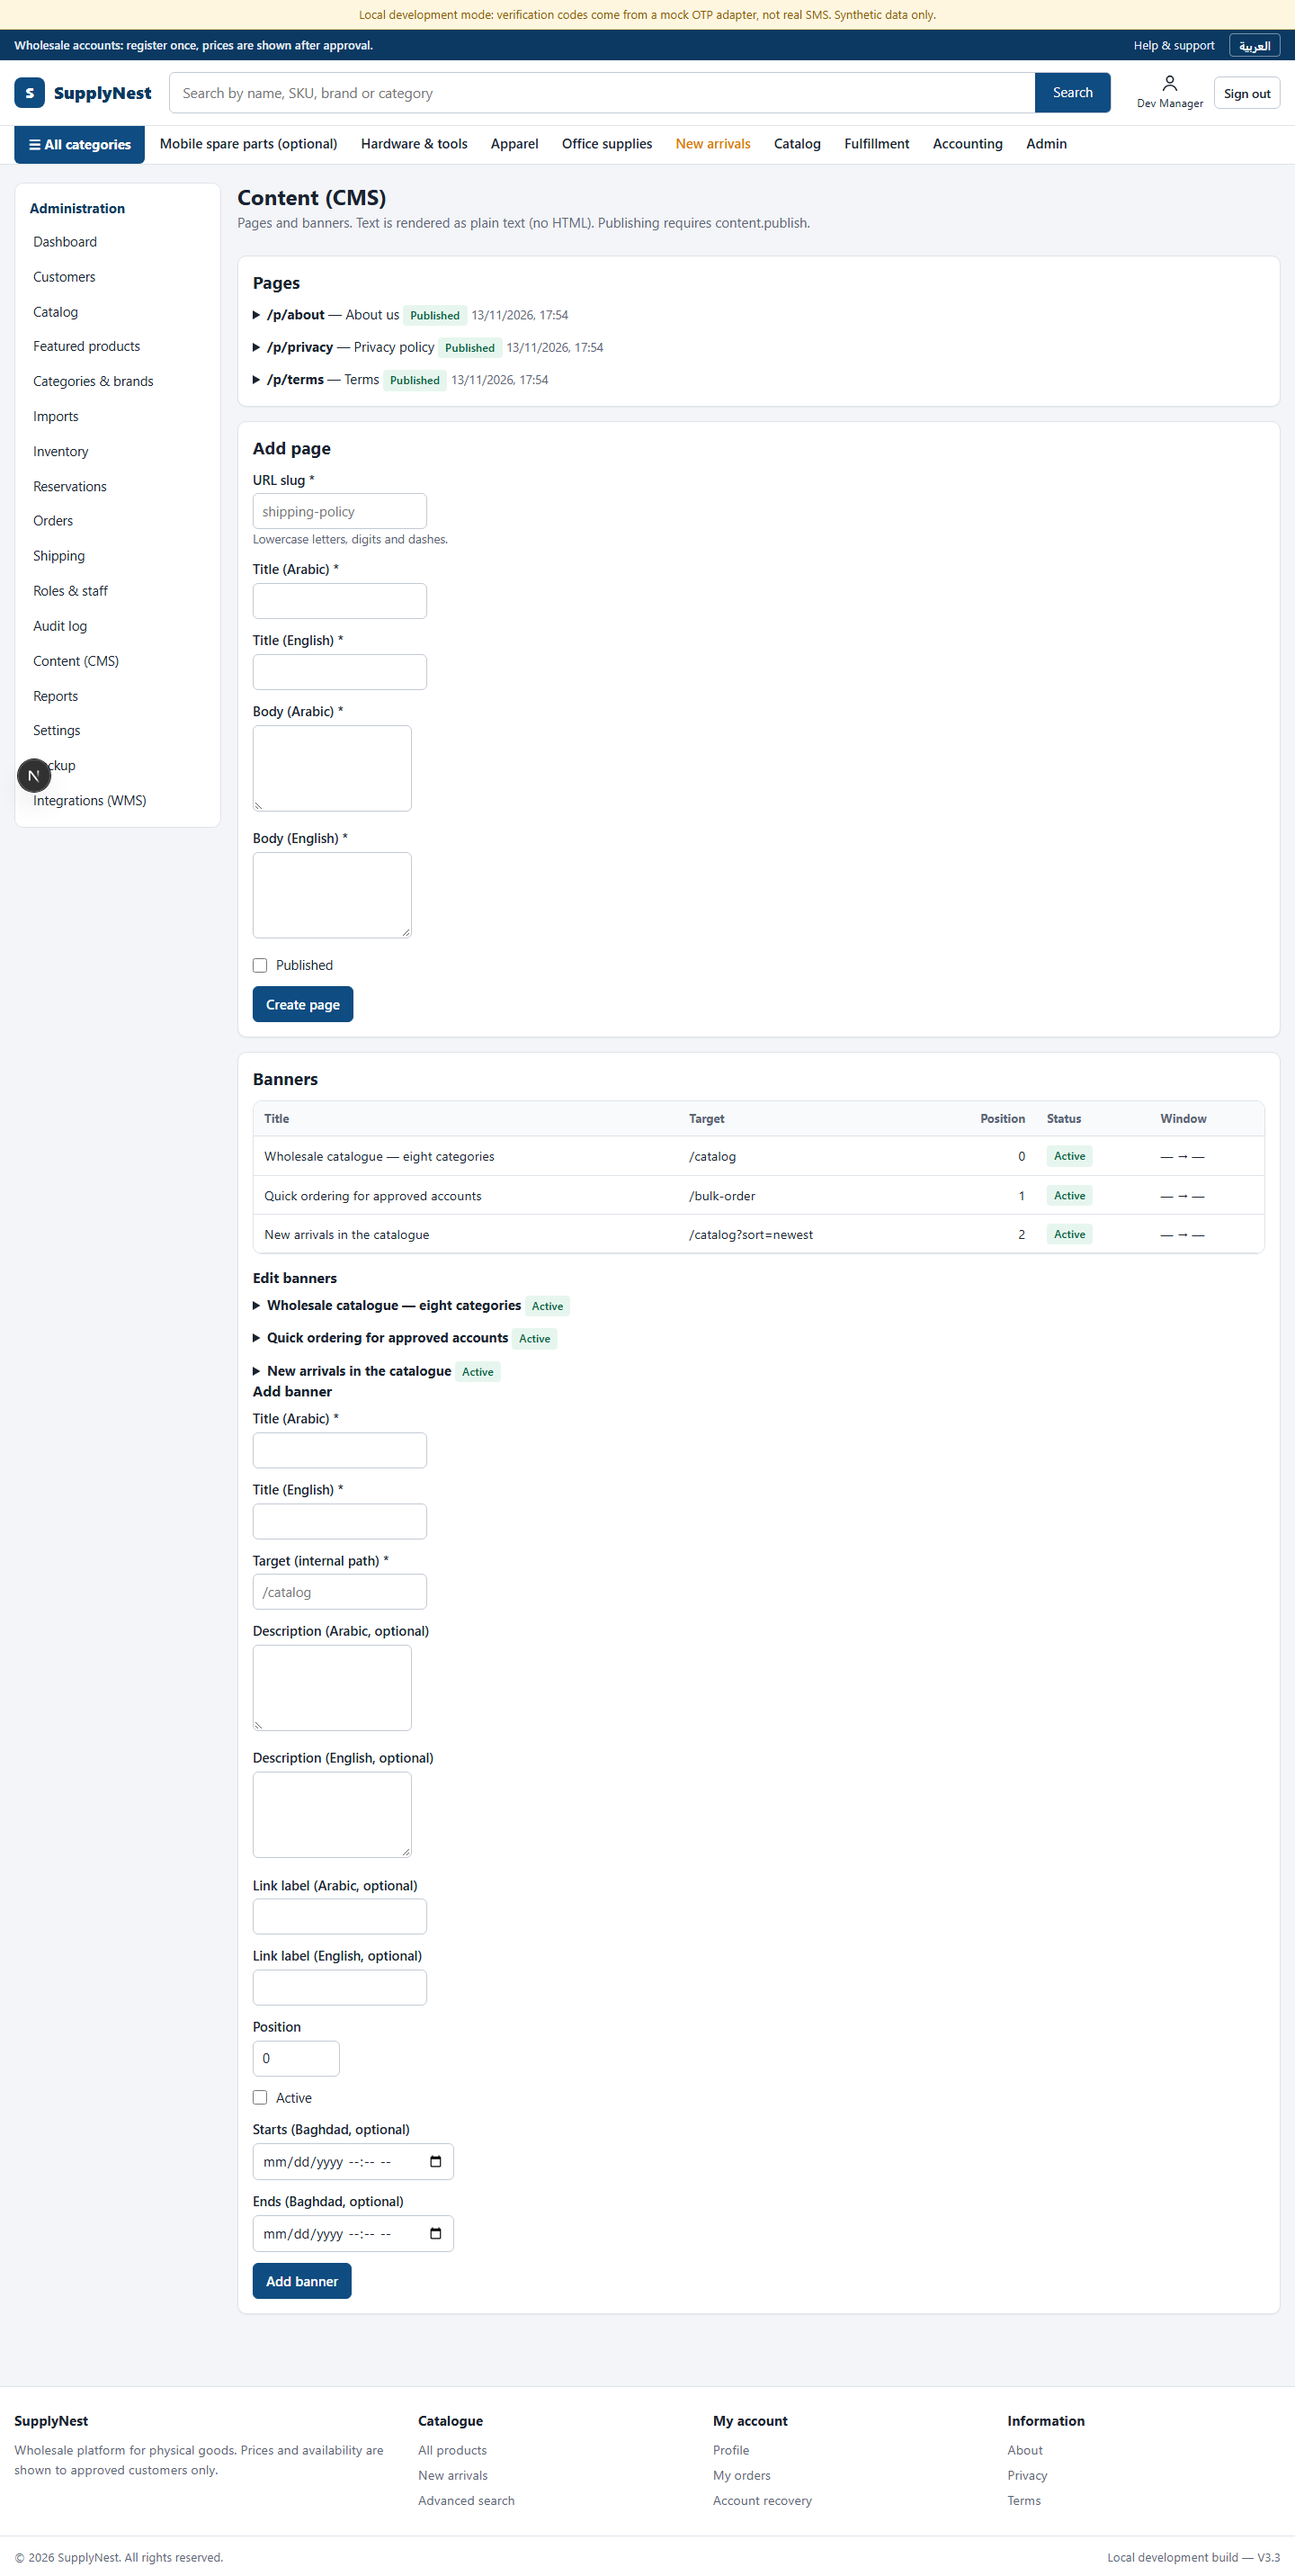
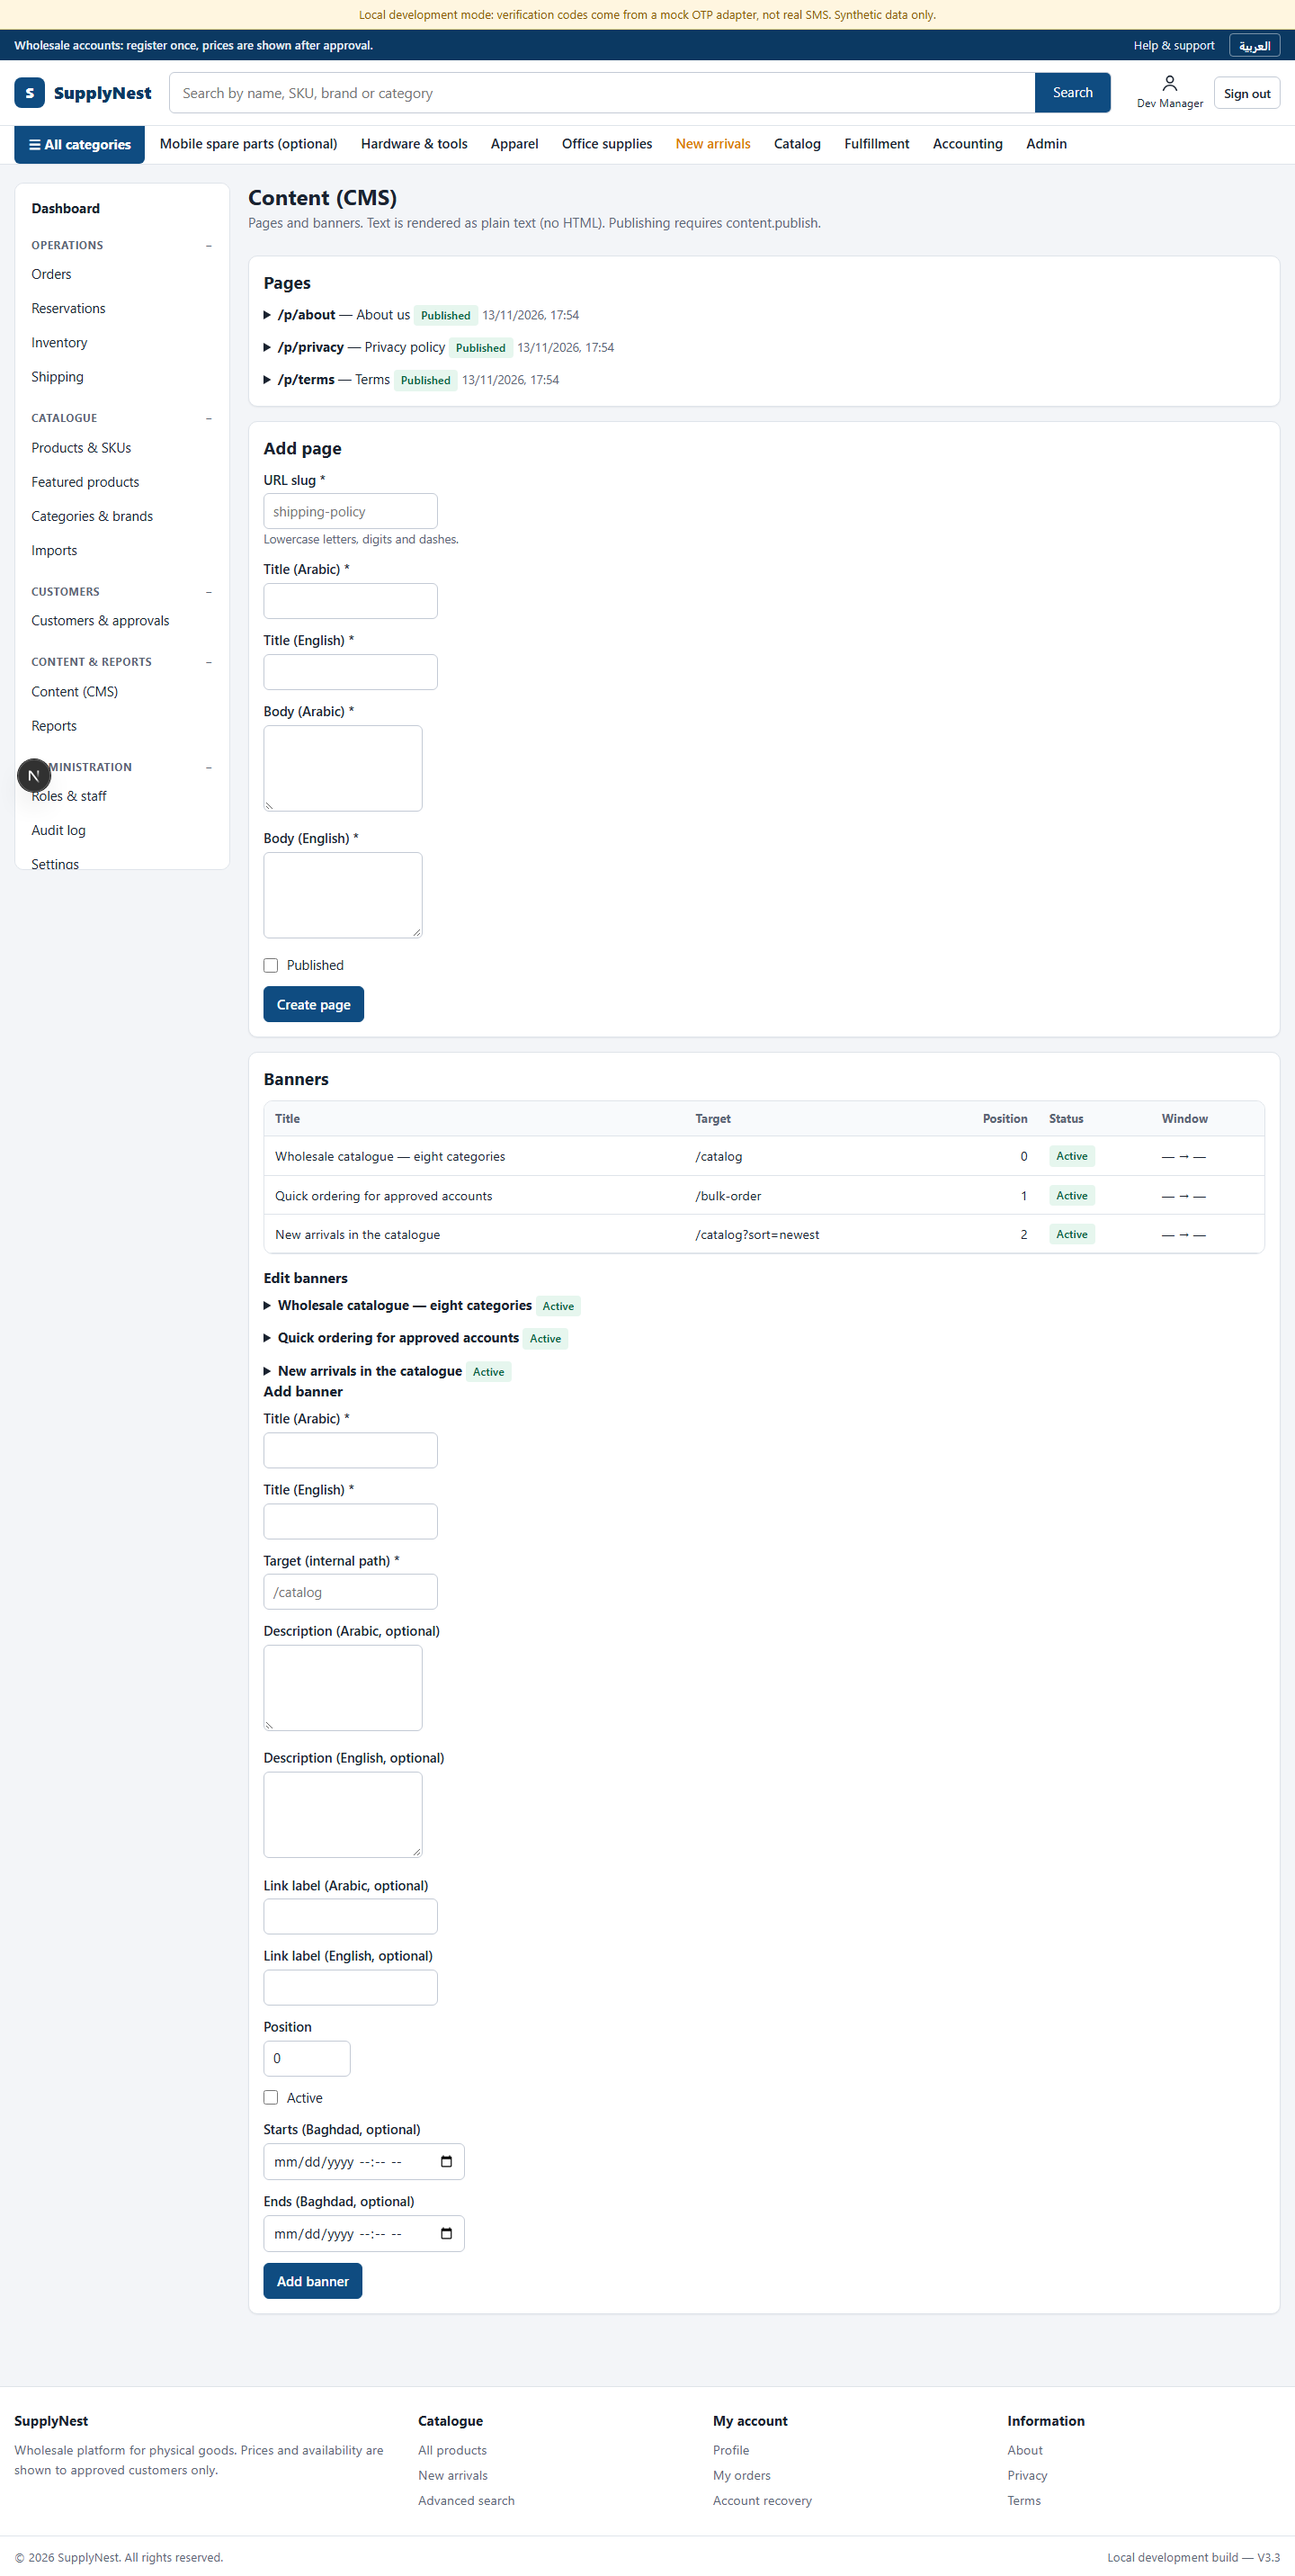
V3.3: review tooling, authenticated state helper, queue and screenshots
scripts/auth-states.mjs logs each development role in once and stores the
session in the gitignored storage/auth directory. ui-review-auth reuses it.
Queue, decisions log and the captured screenshots are updated to match.

diff --git a/IMPLEMENTATION_DECISIONS.md b/IMPLEMENTATION_DECISIONS.md
@@ -25,3 +25,12 @@ Not yet redesigned: product details page, cart, checkout, account pages, admin, 
 - D-17 Work queue: `MASTER_TASK_QUEUE.json` lists every V3.3 task with dependencies, priority, status, acceptance, evidence and blocker reason. It is the source of truth for what remains.
 - D-18 Stop hook: `.claude/settings.json` (project scope only; no global settings changed) runs `.claude/hooks/stop-queue.cjs` when a turn ends. It blocks the stop while an executable pending task exists (all dependencies done), names the next task, and allows the stop when: nothing executable remains, the queue is unreadable, no progress was made since the last block, or only blocked tasks remain. A "done" task without verification evidence blocks the stop. Claude Code's own cap (8 consecutive continuations, `CLAUDE_CODE_STOP_HOOK_BLOCK_CAP`) also applies. Ctrl+C / Escape are not affected by Stop hooks.
 - D-19 Limits: the hook verifies the queue's bookkeeping, not the quality of the work. Evidence is still reviewed by the agent and the owner.
+
+## Decisions taken during the remaining queue (2026-11-14)
+- D-20 Multipart allow-list (`src/lib/api.ts`, `isMultipartAllowed`): multipart bodies are accepted only on paths `imports`, `images`, `image` (category/brand/banner uploads), `uploads` and `bulk-preview` (customer SKU,QTY file, preview only). Before this fix the singular `/image` upload routes and the customer Excel upload returned 400. Every handler still checks its permission first; covered by `tests/integration/media-merchandising.test.ts`.
+- D-21 Quick order has its own page `/quick-order` (rows of SKU and qty, same server preview and add-to-cart as bulk paste). This supersedes D-10, which linked quick order to the cart. The header and home "Start an order" now point to `/quick-order`.
+- D-22 Excel/CSV upload is the second card on `/bulk-order`. Eligibility is the existing `orderingGate` (active, approved customers); there is no separate eligibility flag in the schema.
+- D-23 Auth pages (login, register, verify, recover) share `AuthShell`. Forms and API endpoints are unchanged; registration shows a 3-step indicator.
+- D-24 Customer account pages share `AccountShell` (breadcrumb and side navigation). The overview tiles show only real database counts.
+- D-25 Admin navigation is grouped (Operations, Catalogue, Customers, Content & reports, Administration) with native `<details>` groups. Links are still filtered by permission; pages still enforce it.
+- D-26 Authenticated development states: scripts/auth-states.mjs logs each role in once and stores the session cookie in storage/auth/<role>.json (gitignored via storage/). ui-review-auth.mjs reuses it. Rate limits are not bypassed; a 429 is reported, not retried in a loop.
